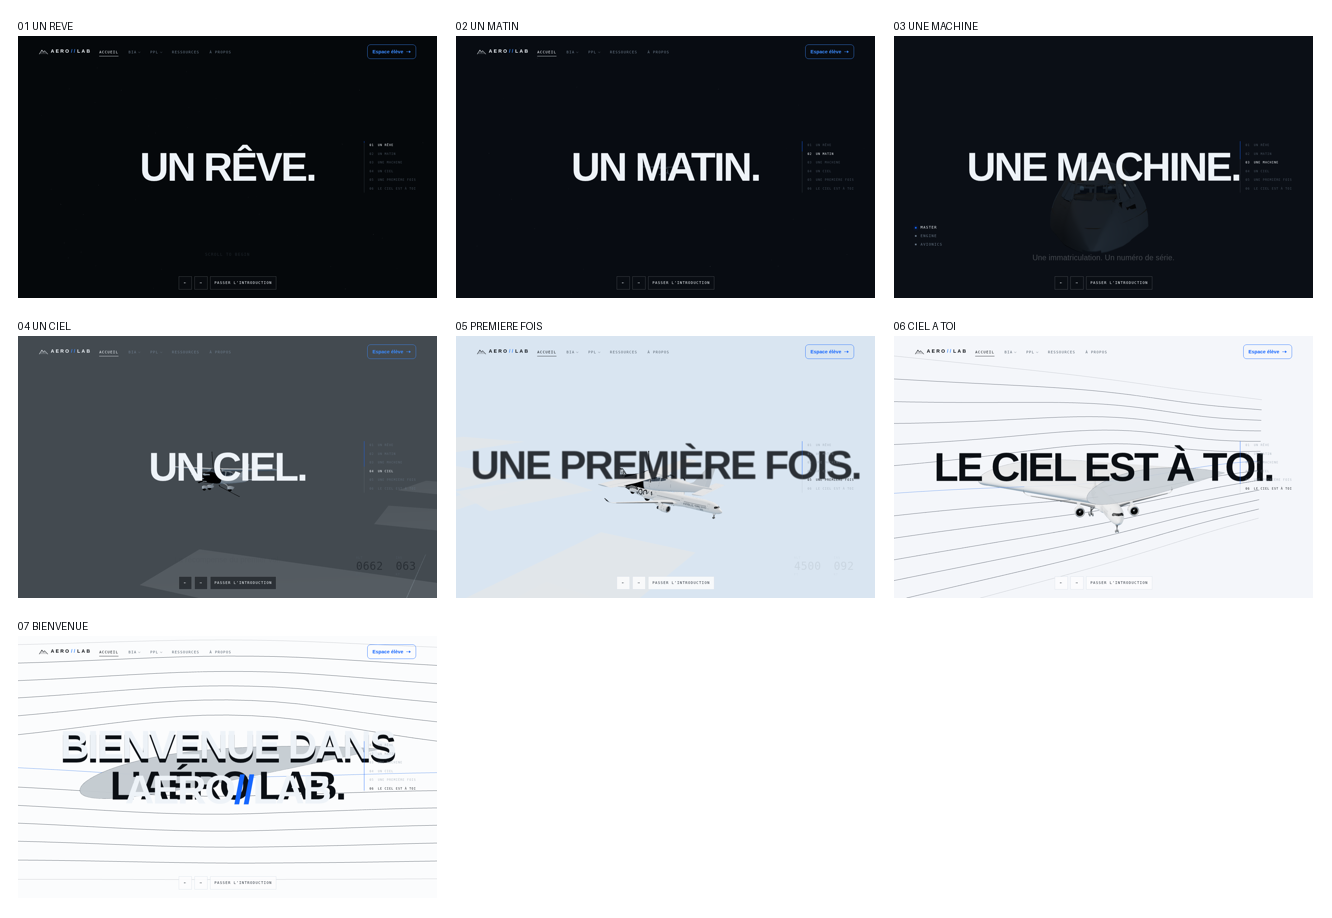
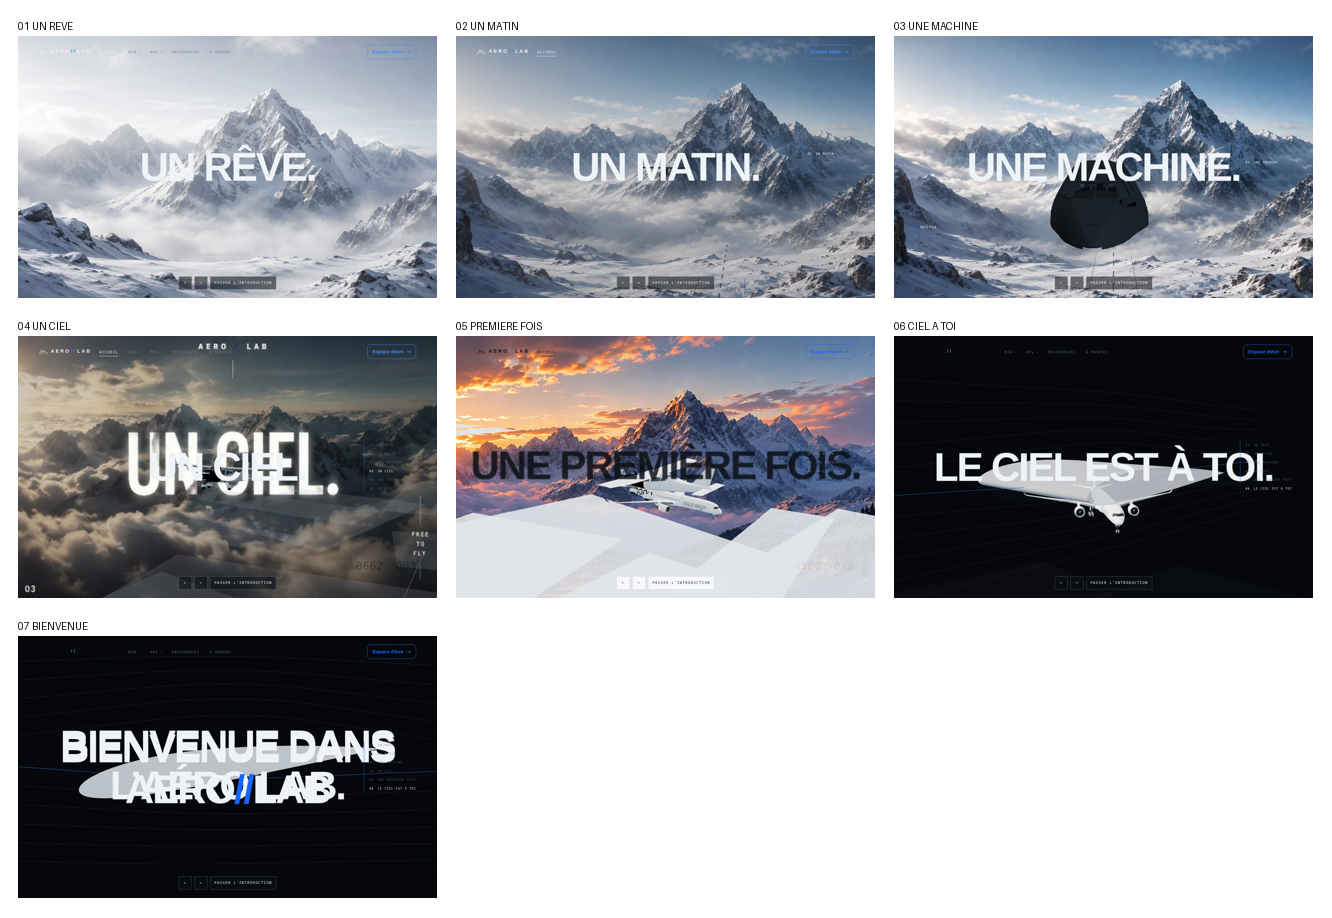
Le décor du storyboard entre enfin dans l'intro
L'intro peignait un fond de couleur unie plus du brouillard 3D. Les
plaques de assets/source/ étaient préparées depuis le début mais
n'avaient jamais été branchées : l'identité visuelle des maquettes
manquait entièrement. Ce n'était pas un asset absent, c'était un
câblage jamais fait.

Quatre plaques posées, en fondu enchaîné piloté par le défilement :
brume en scène 01, ciel bleu en 02 et 03, mer de nuages en 04, piste au
couchant en 05. Chacune a ses quatre bornes — entrée, plein, fondu,
sortie — et elles se chevauchent, comme le storyboard le demande : « la
brume ne coupe pas : elle se dissipe ».

En DOM, pas en texture 3D
-------------------------
Ces plaques sont des plans lointains qui ne bougent pas avec la caméra.
En faire des textures les aurait rééchantillonnées pour rien. Elles sont
donc peintes derrière un canevas WebGL rendu transparent, ce qui les
garde nettes et laisse le navigateur choisir la définition. Le
brouillard 3D reste : il teinte les objets et donne la profondeur.

Un second seuil d'encre
-----------------------
Un seuil unique ne suffisait pas. Les plaques claires vont de la scène
02 à la 05, mais la 06 et le final se jouent sur un ciel d'altitude
sombre : « LE CIEL EST À TOI. » s'affichait en sombre sur noir,
illisible. L'encre lit maintenant une fenêtre et non un seuil.

Trouvé à la capture, invisible dans le code — comme les cinq défauts
précédents de cette session.

Reste visible sur les captures : le titre final chevauche l'A350 au lieu
[…]

diff --git a/src/sections/intro/Backdrop.tsx b/src/sections/intro/Backdrop.tsx
@@ -1,0 +1,151 @@
+import { useEffect, useRef } from 'react'
+import { scrollDriver } from '@/lib/scroll'
+import { window4 } from '@/lib/math'
+import { SCENES } from './timeline'
+
+/**
+ * LE DÉCOR DE L'INTRO — les plaques du storyboard.
+ *
+ * Jusqu'ici l'intro peignait un fond de couleur unie plus du brouillard 3D.
+ * Les plaques de `assets/source/` étaient préparées mais n'avaient jamais
+ * été branchées : l'identité visuelle des maquettes manquait entièrement.
+ *
+ * POURQUOI EN DOM ET NON EN TEXTURE 3D
+ * Ces plaques sont des plans lointains : elles ne bougent pas avec la
+ * caméra. En faire des textures les aurait rééchantillonnées et fait perdre
+ * en netteté, pour rien. En DOM, elles sont servies telles quelles, le
+ * navigateur choisit la définition, et le canevas WebGL passe par-dessus
+ * en transparence.
+ *
+ * LE FONDU, ET CE QUE LE STORYBOARD EN DIT
+ * « La brume de la scène 01 ne coupe pas : elle se dissipe. Fondu enchaîné
+ * entre les deux plaques, piloté au pixel par le défilement. » C'est
+ * exactement ce que fait `window4` ici — chaque plaque a ses quatre bornes
+ * d'entrée, de plein, de fondu et de sortie, et elles se chevauchent.
+ *
+ * RÉSERVE CONNUE : les plaques plafonnent à 1 672 px de large
+ * (assets/RESSOURCES.md §2). En plan lointain c'est suffisant ; sur un
+ * vidéoprojecteur d'école, ça se verra. Le premier plan et la brume sont
+ * reconstruits en 3D par-dessus, comme le storyboard le prévoit.
+ */
+
+type Plate = {
+  id: string
+  /** Base du nom dans public/images, sans définition ni extension. */
+  file: string
+  /** Définitions disponibles, de la plus petite à la plus grande. */
+  sizes: number[]
+  /** Bornes : entrée, plein, début de fondu, sortie. */
+  at: [number, number, number, number]
+  alt: string
+  /** Léger rapprochement sur la durée de la scène, en pourcentage. */
+  zoom: [number, number]
+}
+
+const PLATES: Plate[] = [
+  {
+    id: 'brume',
+    file: 'montagne-brume',
+    sizes: [1024, 1536],
+    // Scène 01 « UN RÊVE. » — présente dès la première frame, donc bornes
+    // basses négatives, et elle se dissipe pendant la scène 02.
+    at: [-0.05, -0.01, SCENES.matin[0], SCENES.matin[1] - 0.02],
+    alt: '',
+    zoom: [1.0, 1.06],
+  },
+  {
+    id: 'ciel-bleu',
+    file: 'montagne-ciel-bleu',
+    sizes: [1024, 1672],
+    // Scène 02 « UN MATIN. » — arrive en fondu sur la brume, tient jusqu'à
+    // la découverte de la machine.
+    at: [SCENES.matin[0] - 0.04, SCENES.matin[1] - 0.03, SCENES.machine[1], SCENES.ciel[0] + 0.03],
+    alt: '',
+    zoom: [1.02, 1.08],
+  },
+  {
+    id: 'ciel',
+    file: 'ciel-nuages',
+    // Cette maquette n'existe qu'en 688 px : elle sert de plan très
+    // lointain, sous les nuages volumétriques reconstruits en 3D.
+    sizes: [688],
+    // Scène 04 « UN CIEL. » — au-dessus de la mer de nuages.
+    at: [SCENES.machine[1] - 0.03, SCENES.ciel[0] + 0.02, SCENES.ciel[1] - 0.01, SCENES.premiereFois[0] + 0.03],
+    alt: '',
+    zoom: [1.04, 1.0],
+  },
+  {
+    id: 'piste',
+    file: 'piste-couchant',
+    sizes: [1024, 1672],
+    // Scène 05 « UNE PREMIÈRE FOIS. » — la piste 27 au couchant, sur
+    // laquelle l'A350 s'aligne.
+    at: [SCENES.premiereFois[0] - 0.05, SCENES.premiereFois[0] + 0.04, 0.72, SCENES.cielATooi[0]],
+    alt: '',
+    zoom: [1.0, 1.05],
+  },
+]
+
+export default function Backdrop() {
+  const refs = useRef<(HTMLDivElement | null)[]>([])
+
+  useEffect(() => {
+    const reduced = window.matchMedia('(prefers-reduced-motion: reduce)').matches
+
+    return scrollDriver.subscribe((p) => {
+      PLATES.forEach((plate, i) => {
+        const el = refs.current[i]
+        if (!el) return
+        const o = window4(p, ...plate.at)
+        el.style.opacity = String(o)
+        // Une plaque invisible ne doit rien coûter au compositeur.
+        el.style.visibility = o < 0.005 ? 'hidden' : 'visible'
+        if (reduced) return
+        // Rapprochement très lent : imperceptible d'une frame à l'autre,
+        // mais il installe une tension sur la durée de la scène.
+        const [z0, z1] = plate.zoom
+        const t = Math.min(1, Math.max(0, (p - plate.at[0]) / (plate.at[3] - plate.at[0])))
+        el.style.transform = `scale(${(z0 + (z1 - z0) * t).toFixed(4)})`
+      })
+    })
+  }, [])
+
+  const base = import.meta.env.BASE_URL
+
+  return (
+    <div className="intro-backdrop" aria-hidden="true">
+      {PLATES.map((plate, i) => (
+        <div
+          key={plate.id}
+          ref={(n) => {
+            refs.current[i] = n
+          }}
+          className="intro-backdrop__plate"
+          style={{ opacity: 0, visibility: 'hidden' }}
+        >
+          <picture>
+            <source
+              type="image/webp"
+              srcSet={plate.sizes
+                .map((w) => `${base}images/${plate.file}-${w}.webp ${w}w`)
+                .join(', ')}
+              sizes="100vw"
+            />
+            <img
+              src={`${base}images/${plate.file}-${plate.sizes[plate.sizes.length - 1]}.jpg`}
+              srcSet={plate.sizes
+                .map((w) => `${base}images/${plate.file}-${w}.jpg ${w}w`)
+                .join(', ')}
+              sizes="100vw"
+              alt={plate.alt}
+              // La première plaque est le tout premier écran du site : elle
+              // ne doit pas être différée.
+              loading={i === 0 ? 'eager' : 'lazy'}
+              decoding="async"
+            />
+          </picture>
+        </div>
+      ))}
+    </div>
+  )
+}

diff --git a/src/sections/intro/Intro.tsx b/src/sections/intro/Intro.tsx
@@ -14,6 +14,7 @@ import { clamp, ramp, window4 } from '@/lib/math'
  * une ouverture instantanée et une attente.
  */
 const Stage = lazy(() => import('./Stage'))
+import Backdrop from './Backdrop'
 
 /**
  * INTRODUCTION IMMERSIVE (§04 → §09).
@@ -32,7 +33,9 @@ function BeatLine({ beat }: { beat: Beat }) {
   })
   // L'encre suit le ciel : claire sur le noir d'ouverture, sombre une fois
   // que la scène a blanchi (§51.1 + contraste §35).
-  const ink = beat.at[1] > INTRO.skyTurnsWhite ? 'dark' : 'light'
+  const m = beat.at[1]
+  const ink =
+    m > INTRO.skyTurnsWhite && m < INTRO.skyTurnsDark ? 'dark' : 'light'
 
   return (
     <div ref={ref} className="beat" data-kind={beat.kind} data-ink={ink}>
@@ -225,7 +228,8 @@ function Questions() {
  * bascule nuit → jour. On bascule l'encre au même seuil que le ciel.
  */
 function setInk(el: HTMLElement, p: number) {
-  const ink = p < INTRO.skyTurnsWhite ? 'light' : 'dark'
+  const ink =
+    p > INTRO.skyTurnsWhite && p < INTRO.skyTurnsDark ? 'dark' : 'light'
   if (el.dataset.ink !== ink) el.dataset.ink = ink
 }
 
@@ -394,6 +398,8 @@ export default function Intro() {
       style={{ height: `${INTRO.lengthVh}vh` }}
     >
       <div className="intro__viewport">
+        {/* Le décor du storyboard, derrière le canevas transparent. */}
+        <Backdrop />
         {webgl ? (
           <ErrorBoundary quiet>
             <Suspense

diff --git a/src/sections/intro/Stage.tsx b/src/sections/intro/Stage.tsx
@@ -65,12 +65,13 @@ function Director({ reduced }: { reduced: boolean }) {
 
   useLayoutEffect(() => {
     scene.fog = fog
-    scene.background = bg
+    // Pas de scene.background : le décor vient de la couche Backdrop, en
+    // DOM, derrière un canevas transparent. Le brouillard, lui, reste — il
+    // teinte les objets et donne la profondeur.
     return () => {
       scene.fog = null
-      scene.background = null
     }
-  }, [scene, fog, bg])
+  }, [scene, fog])
 
   useFrame((state, dt) => {
     const prog = p()
@@ -392,7 +393,10 @@ export default function Stage({
         gl={{
           antialias: profile.tier !== 'low',
           powerPreference: 'high-performance',
-          alpha: false,
+          // Transparent : les plaques du storyboard sont peintes DERRIÈRE le
+          // canevas, en DOM. Une texture 3D les aurait rééchantillonnées et
+          // fait perdre en netteté, pour un plan qui ne bouge pas.
+          alpha: true,
           stencil: false,
           depth: true,
         }}

diff --git a/src/styles/app.css b/src/styles/app.css
@@ -2997,3 +2997,33 @@ a.card:hover .card__state {
 .eleve__message[data-ok='false'] {
   color: #f0a7a2;
 }
+
+/* ---- Décor de l'intro : les plaques du storyboard ------------------
+   Elles sont peintes DERRIÈRE le canevas WebGL, qui est transparent.
+   Une texture 3D les aurait rééchantillonnées pour un plan qui ne bouge
+   pas ; en DOM elles restent nettes et le navigateur choisit sa
+   définition. */
+
+.intro-backdrop {
+  position: absolute;
+  inset: 0;
+  overflow: hidden;
+  /* Sous le canevas et sous les textes, mais au-dessus du fond de page. */
+  z-index: 0;
+  background: var(--c-void);
+}
+
+.intro-backdrop__plate {
+  position: absolute;
+  inset: 0;
+  will-change: opacity, transform;
+  transform-origin: 50% 55%;
+}
+
+.intro-backdrop__plate picture,
+.intro-backdrop__plate img {
+  display: block;
+  width: 100%;
+  height: 100%;
+  object-fit: cover;
+}

diff --git a/src/sections/intro/timeline.ts b/src/sections/intro/timeline.ts
@@ -78,6 +78,16 @@ export const INTRO = {
    * posées : c'est elles qui devront porter la bascule nuit → jour.
    */
   skyTurnsWhite: 0.5,
+  /**
+   * Retour à l'encre claire.
+   *
+   * Un seuil unique ne suffisait pas : les plaques claires — montagne,
+   * ciel, piste au couchant — vont de la scène 02 à la scène 05, mais les
+   * scènes 06 et le final se jouent sur un ciel d'altitude sombre. Sans
+   * cette seconde borne, « LE CIEL EST À TOI. » s'affichait en sombre sur
+   * noir, illisible. Trouvé à la capture, invisible dans le code.
+   */
+  skyTurnsDark: 0.76,
   /** Au-dessus de la mer de nuages — scène 04. */
   dreamHigh: SCENES.ciel[0],
   /** Orbite libre autour de l'A350 — scène 06. */
